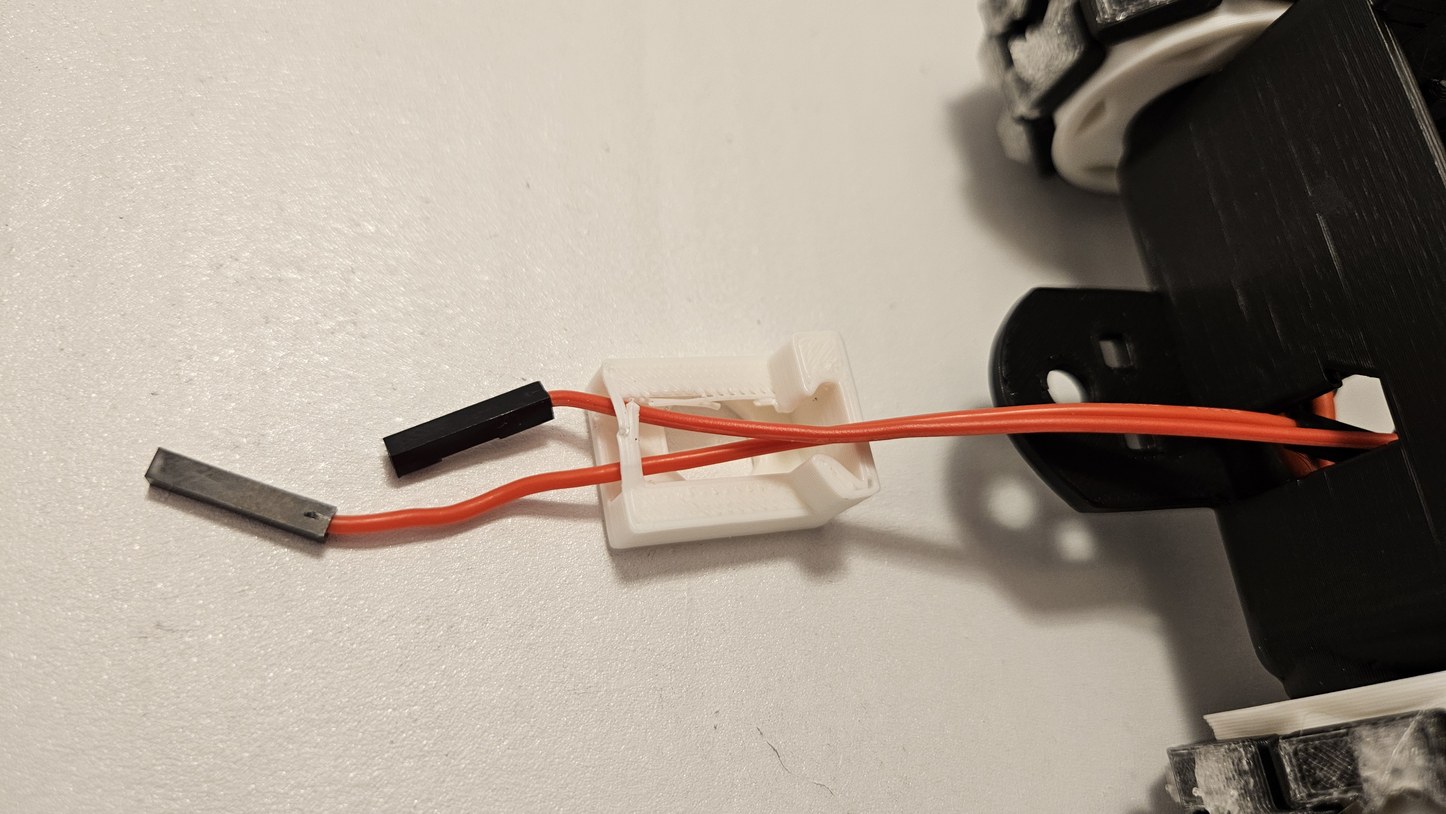
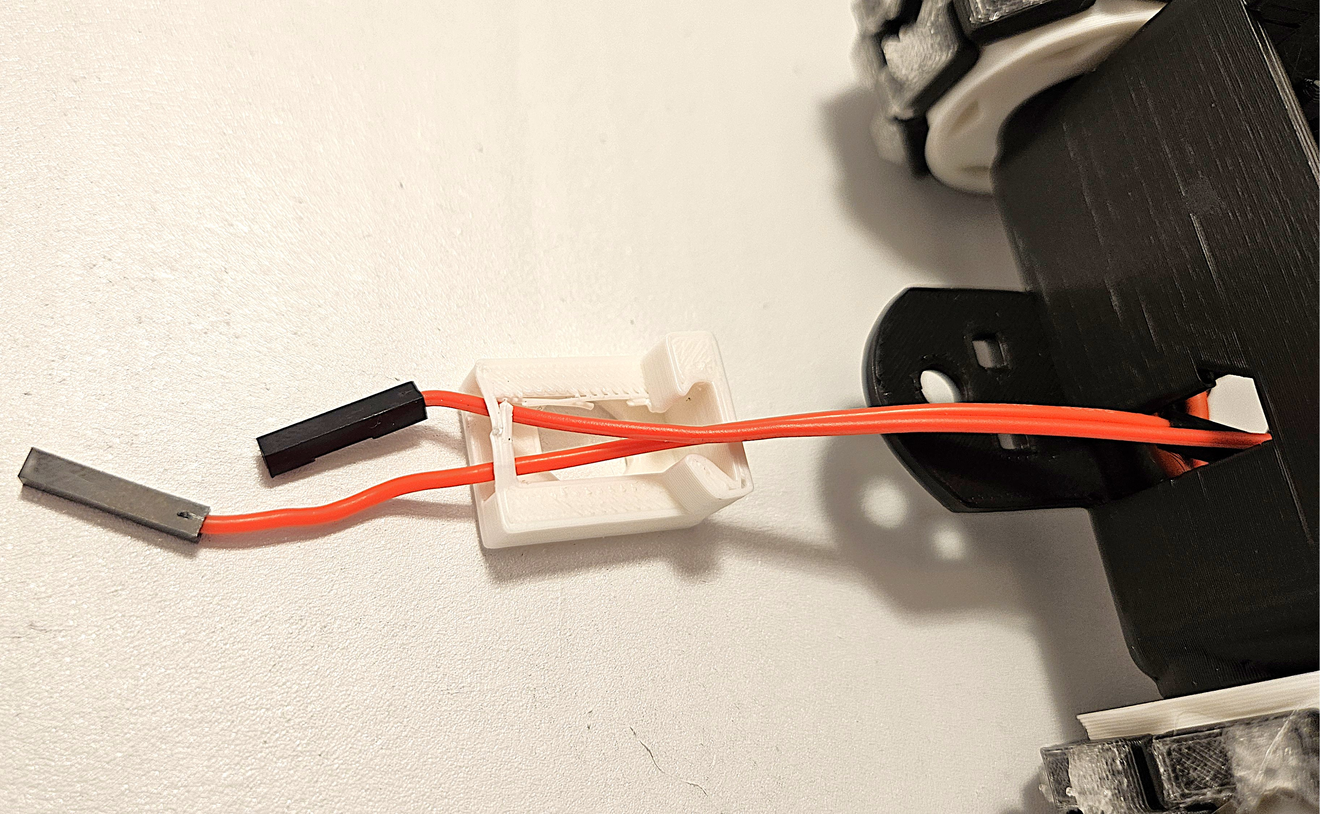
update power.md for new V3 additions... in progress

diff --git a/lessons/assembly/power.md b/lessons/assembly/power.md
@@ -4,97 +4,115 @@
 
 ### Parts
 - 9 volt battery connector
-- 9 volt battery (not pictured)
 - Power switch
 - Power switch holder
 - 10cm red female to female wire
 
-NOTE: The images below do not show the wheels and tracks installed, but at this point you should have your wheels and tracks already on the chassis.
 
-<img alt="Power components" src="/lessons/images/assembly/power_connector_switch.jpg" width="500"/>
+<img alt="Power components" src="../images/assembly/v3/PowerSwitchParts.jpg" width="500"/>
 
-Feed the red wire from the battery connector through the slot in the front of the chassis:
+Feed the red wire from the battery connector and one end from the 10cm red wire through the slot in the front of the chassis:
 
-<img alt="Front Chassis Power Wire" src="/lessons/images/assembly/chassis_power_wire1.jpg" width="500"/>
+<img alt="Front Chassis Power Wire" src="../images/assembly/v3/PowerSwitchInstallChassis1.jpg" width="500"/>
 
-Grab the 10cm female to female red wire.
+Make sure the wire from the battery connector comes out from the inside of the chassis. The battery connector itself should be inside the chassis.
 
-<img alt="Front Chassis Power Wire2" src="/lessons/images/assembly/chassis_power_wires2.jpg" width="500"/>
+<img alt="Front Chassis Power Wire2" src="../images/assembly/v3/PowerSwitchInstallChassis2.jpg" width="500"/>
 
-Get the power switch case and feed the two red wires through the rectangular slot at the edge of the power switch.  Connect one wire to the middle pin, and the other to either side.  The side that you connect the second wire to will determine where the switch needs to be in order to be "on".
+Get the power switch holder and feed the two red wires through the rectangular hole at the edge of the power switch.  
 
-<img alt="Switch wires Installed" src="/lessons/images/assembly/power_switch_close_up.jpg" width="500"/>
+<img alt="Switch wires through switch holder" src="../images/assembly/v3/PowerSwitchInstallChassis3.jpg" width="500"/>
 
-The switch simply connects the two pins closest to it. For example, in the picture above, since the edge pin to the right is connected to the red wire, and the switch is pointed to the right, that means the switch is on.
-Make a note of which direction is off.  Off will be when the switch is in the direction of the empty pin not connected to a wire.
-Now push the power switch into the rectangular slot, pushing the red wires against the angled piece.  The red wires should make a sharp right angle inside the switch holder.  This helps hold the wires in place.
 
-<img alt="Switch in switch holder" src="/lessons/images/assembly/power_switch_closeup_2.jpg" width="500"/>
+Connect one wire to the middle pin, and the other to either side.  The side that you connect the second or outer wire to will determine where the switch needs to be in order to be "on".
 
-Feed the short 10cm red wire's unconnected end into the chassis through the same slot the battery connector's red wire is coming out of. Make sure that the switch holder is now flush with this slot. The easiest way to do this is to gently pull on the battery connector's red wire and the short 10cm red wire until you see the part of the switch holder they're coming out of fit through the slot.
+<img alt="Switch wires Installed" src="../images/assembly/v3/PowerSwitchInstall2.jpg" width="500"/>
 
-<img alt="Switch in chassis" src="/lessons/images/assembly/chassis_power_switch_installed.jpg" width="500"/>
+The switch simply connects the two pins closest to it. For example, in the picture above, since the edge pin to the right is connected to the red wire, and the switch is pushed to the left, that means the switch is off.
+Make a note of which direction is off and on.  Off will be when the switch is in the direction of the empty pin not connected to a wire. Put the switch in the OFF position now and try to leave it OFF until much later in the build when you are told to turn it ON.  
+  
+Now push the power switch and wires into the rectangular slot, pushing the red wires against the angled piece.  The red wires should make a sharp right angle inside the switch holder.  This helps hold the wires in place.  This can be a tight fit. See more instructions after picture if struggling.
 
-### Battery Install  
+<img alt="Switch in switch holder" src="../images/assembly/v3/PowerSwitchInstall3.jpg" width="500"/>
+
+Fitting the power switch in the switch holder can be a very tight fit.  Borrow a pair of pliers or use two strong thumbs on each side of the black switch to push it into place.
+
+<img alt="Switch in switch holder second view" src="../images/assembly/v3/PowerSwitchInstallChassis8.jpg" width="500"/>
+
+
+<details >
+<summary>Good Unit Test Opportunity</summary>
+    After the power switch is securely in the power switch holder and connected to the 10cm red wire and the battery connector, this is a good time to test that your switch is working and making a continuous connection when on. Grab a lab instructor if available to help here. To do this, take a voltmeter or something similar to test continuity (Diode mode will work too).   The idea is to turn the switch to the on position and put the voltmeter leads on the positive battery connector and then the other end on the loose end of the 10cm wire to ensure that electricity can flow through the switch from the battery and out through the 10cm wire. 
+</details>  
+
+  
+Now gently pull the red wires from inside the chassis to pull the switch holder assembly up against the outside of the chassis. The protruding side of the switch holder(where the wires are coming out) should fit into the slot on the chassis.
+
+<img alt="Switch in chassis" src="../images/assembly/v3/PowerSwitchInstallChassis9.jpg" width="500"/>
+
+### Battery Door Install  
 ### Parts
 - Battery door
-- Battery door lock
+- Switch Key
 
-<img alt="Battery Door" src="/lessons/images/assembly/battery_cover_and_key.jpg" width="500"/>
+<img alt="Battery Door" src="../images/assembly/v3/SwitchKeyAndDoorParts.jpg" width="500"/>
 
 Put the battery door under the bottom center of the chassis with the raised square section up and towards the front (away from the hitch). 
 The tabs on the battery door opposite the raised square go into the chassis first and act as a hinge point.  In the picture above, the tabs are on the right side.
 Put the tabs up into the chassis and then pivot the raised square side up to be flush with the chassis.
-While holding it there, take the battery door key and guide the long "sword" like end under the switch holder already on the chassis.
+While holding it there, take the switch key and guide the long "sword" like end under the switch holder already on the chassis.
 The long narrow "sword" part should slide just under power switch holder through the same slot in the chassis that power switch holder is in.  This will lock it in place.
 
-<img alt="Switch in chassis" src="/lessons/images/assembly/chassis_power_switch_topdown.jpg" width="500"/>
+<img alt="Switch in chassis" src="../images/assembly/v3/SwitchKeyAndDoorChassis.jpg" width="500"/>
+
+<img alt="Switch in chassis view 2" src="../images/assembly/v3/SwitchKeyAndDoorChassis1.jpg" width="500"/>  
+<img alt="Switch in chassis view 3" src="../images/assembly/v3/SwitchKeyAndDoorChassis2.jpg" width="500"/>  
 
 Continue to slide the battery key through until it holds the switch holder in place and the hex shape on the key fits into the similarly shaped hole on the switch holder.  
 
 Battery door and key fully installed:  
 
-<img alt="Switch fully installed" src="/lessons/images/assembly/chassis_power_switch_battery_door.jpg" width="500"/>
+<img alt="Switch fully installed" src="../images/assembly/v3/SwitchKeyAndDoorChassis3.jpg" width="500"/>
+
+<img alt="Switch fully installed second view" src="../images/assembly/v3/SwitchKeyAndDoorChassis4.jpg" width="500"/>
+
+<img alt="Switch fully installed third view" src="../images/assembly/v3/SwitchKeyAndDoorChassis5.jpg" width="500"/>
 
 At this time, make sure the switch is turned off.  To turn off the power switch, push it in the direction of the single free pin not connected.
-Now install the 9 volt battery.  Clip the 9 volt battery connector onto the battery and place it in the bottom middle of the chassis.  
-Try to keep all wires ABOVE the battery.  If there are wires under the battery, you may not be able to connect them properly or change the battery easily later.
 
-<img alt="Battery Installed" src="/lessons/images/assembly/chassis_battery_installed.jpg" width="500"/>
-
-### Voltage Regulator
+### Positive Power Connections
 ### Parts:
-- Voltage regulator
+- 10cm Red Female to Female wire
+- 10cm White Female to Female wire
+- 10cm 3 way connector
 
-Grab the voltage regulator:
-
-<img alt="Voltage Regulator" src="/lessons/images/assembly/regulator.webp" width="500"/>
+<img alt="Voltage Regulator" src="../images/assembly/v3/PositivePowerParts.jpg" width="500"/>
 
 The voltage regulator converts our 9 volt power source down to a steady 5 volts, which is what is required to operate the Pico.
 The 3 pins from left to right are our input, ground, and output as seen in the picture above.
 
 Grab your chassis with installed battery, battery switch, and motors.  Also, grab the voltage regulator and the red Y female to female cable.
 
-<img alt="Chassis, Voltage Reg, Y wire" src="/lessons/images/assembly/power_regulator.jpg" width="500"/>
+<img alt="Chassis, Voltage Reg, Y wire" src="../images/assembly/power_regulator.jpg" width="500"/>
 
 Connect the single end of the red Y wire to the far right of the voltage regulator.  This is the voltage output pin.  Push the female end up as far as you can, usually up to where the pin enlarges.
 Be careful not to bend or break the pins on the voltage regulator.  If you do slightly bend the pins, it's not a big deal, just gently bend them back flat.  Constantly bending the pins can weaken them.
 
-<img alt="Voltage Reg, Y wire" src="/lessons/images/assembly/power_regulator_positive_y.jpg" width="500"/>
+<img alt="Voltage Reg, Y wire" src="../images/assembly/power_regulator_positive_y.jpg" width="500"/>
 
 Connect one of the black ground wires from the battery connector to the middle pin.
 
-<img alt="Voltage Reg Ground" src="/lessons/images/assembly/power_regulator_negative_wire.jpg" width="500"/>
+<img alt="Voltage Reg Ground" src="../images/assembly/power_regulator_negative_wire.jpg" width="500"/>
 
 Connect the 10cm red wire that comes from the power switch to the far left pin on the regulator.
 
-<img alt="Voltage Reg Input" src="/lessons/images/assembly/power_regulator_power_switch.jpg" width="500"/>
+<img alt="Voltage Reg Input" src="../images/assembly/power_regulator_power_switch.jpg" width="500"/>
 
-<img alt="Voltage Reg Input" src="/lessons/images/assembly/power_regulator_power_switch_2.jpg" width="500"/>
+<img alt="Voltage Reg Input" src="../images/assembly/power_regulator_power_switch_2.jpg" width="500"/>
 
 Carefully move the voltage regulator on top of the battery without disconnecting any of the wires.  The hole on top of the voltage regulator should go on one of the posts beside the battery.
 
-<img alt="Voltage Reg In Chassis" src="/lessons/images/assembly/power_regulator_in_chassis.jpg" width="500"/>
+<img alt="Voltage Reg In Chassis" src="../images/assembly/power_regulator_in_chassis.jpg" width="500"/>
 
 [back](https://github.com/javaplus/MadScientist/blob/main/lessons/assembly/wheels.md)
 
